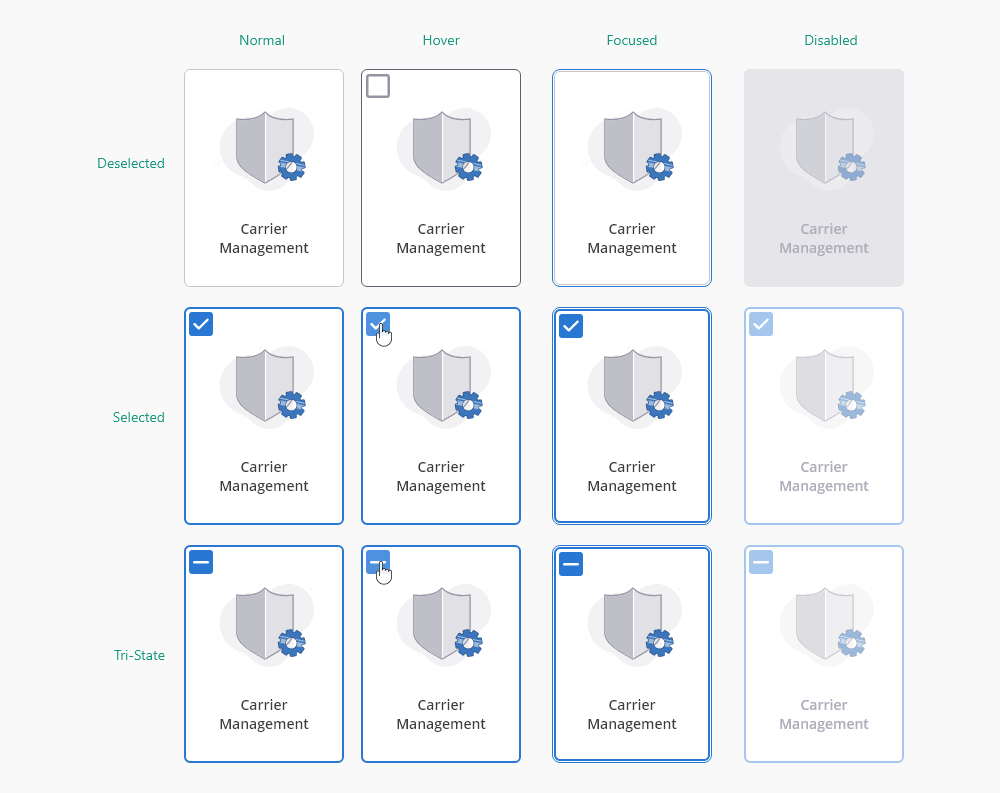
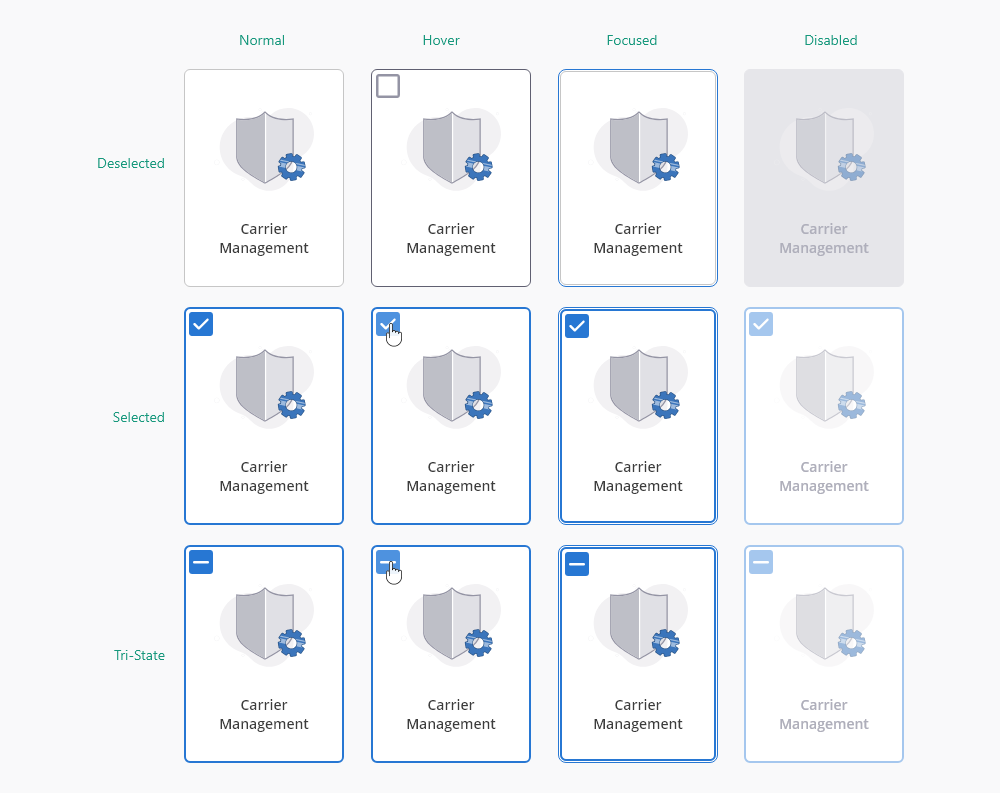
Update component “checkboxes”

diff --git a/src/_areas/design-system/components/checkboxes.md b/src/_areas/design-system/components/checkboxes.md
@@ -69,9 +69,13 @@ Gallery checkboxes are more prominent than standard checkboxes. They often featu
 
 Standard Checkbox states
 
-![Image of gallery checkbox states](/images/gallery-checkbox-states.png)
+![Gallery Checkbox states](/images/gallery-checkbox-states-no-illustrations.png)
 
 Gallery Checkbox states
+
+![Gallery Checkbox states - with illustrations](/images/gallery-checkbox-states.png)
+
+Gallery Checkbox states - with illustrations
 
 ### Normal
 
